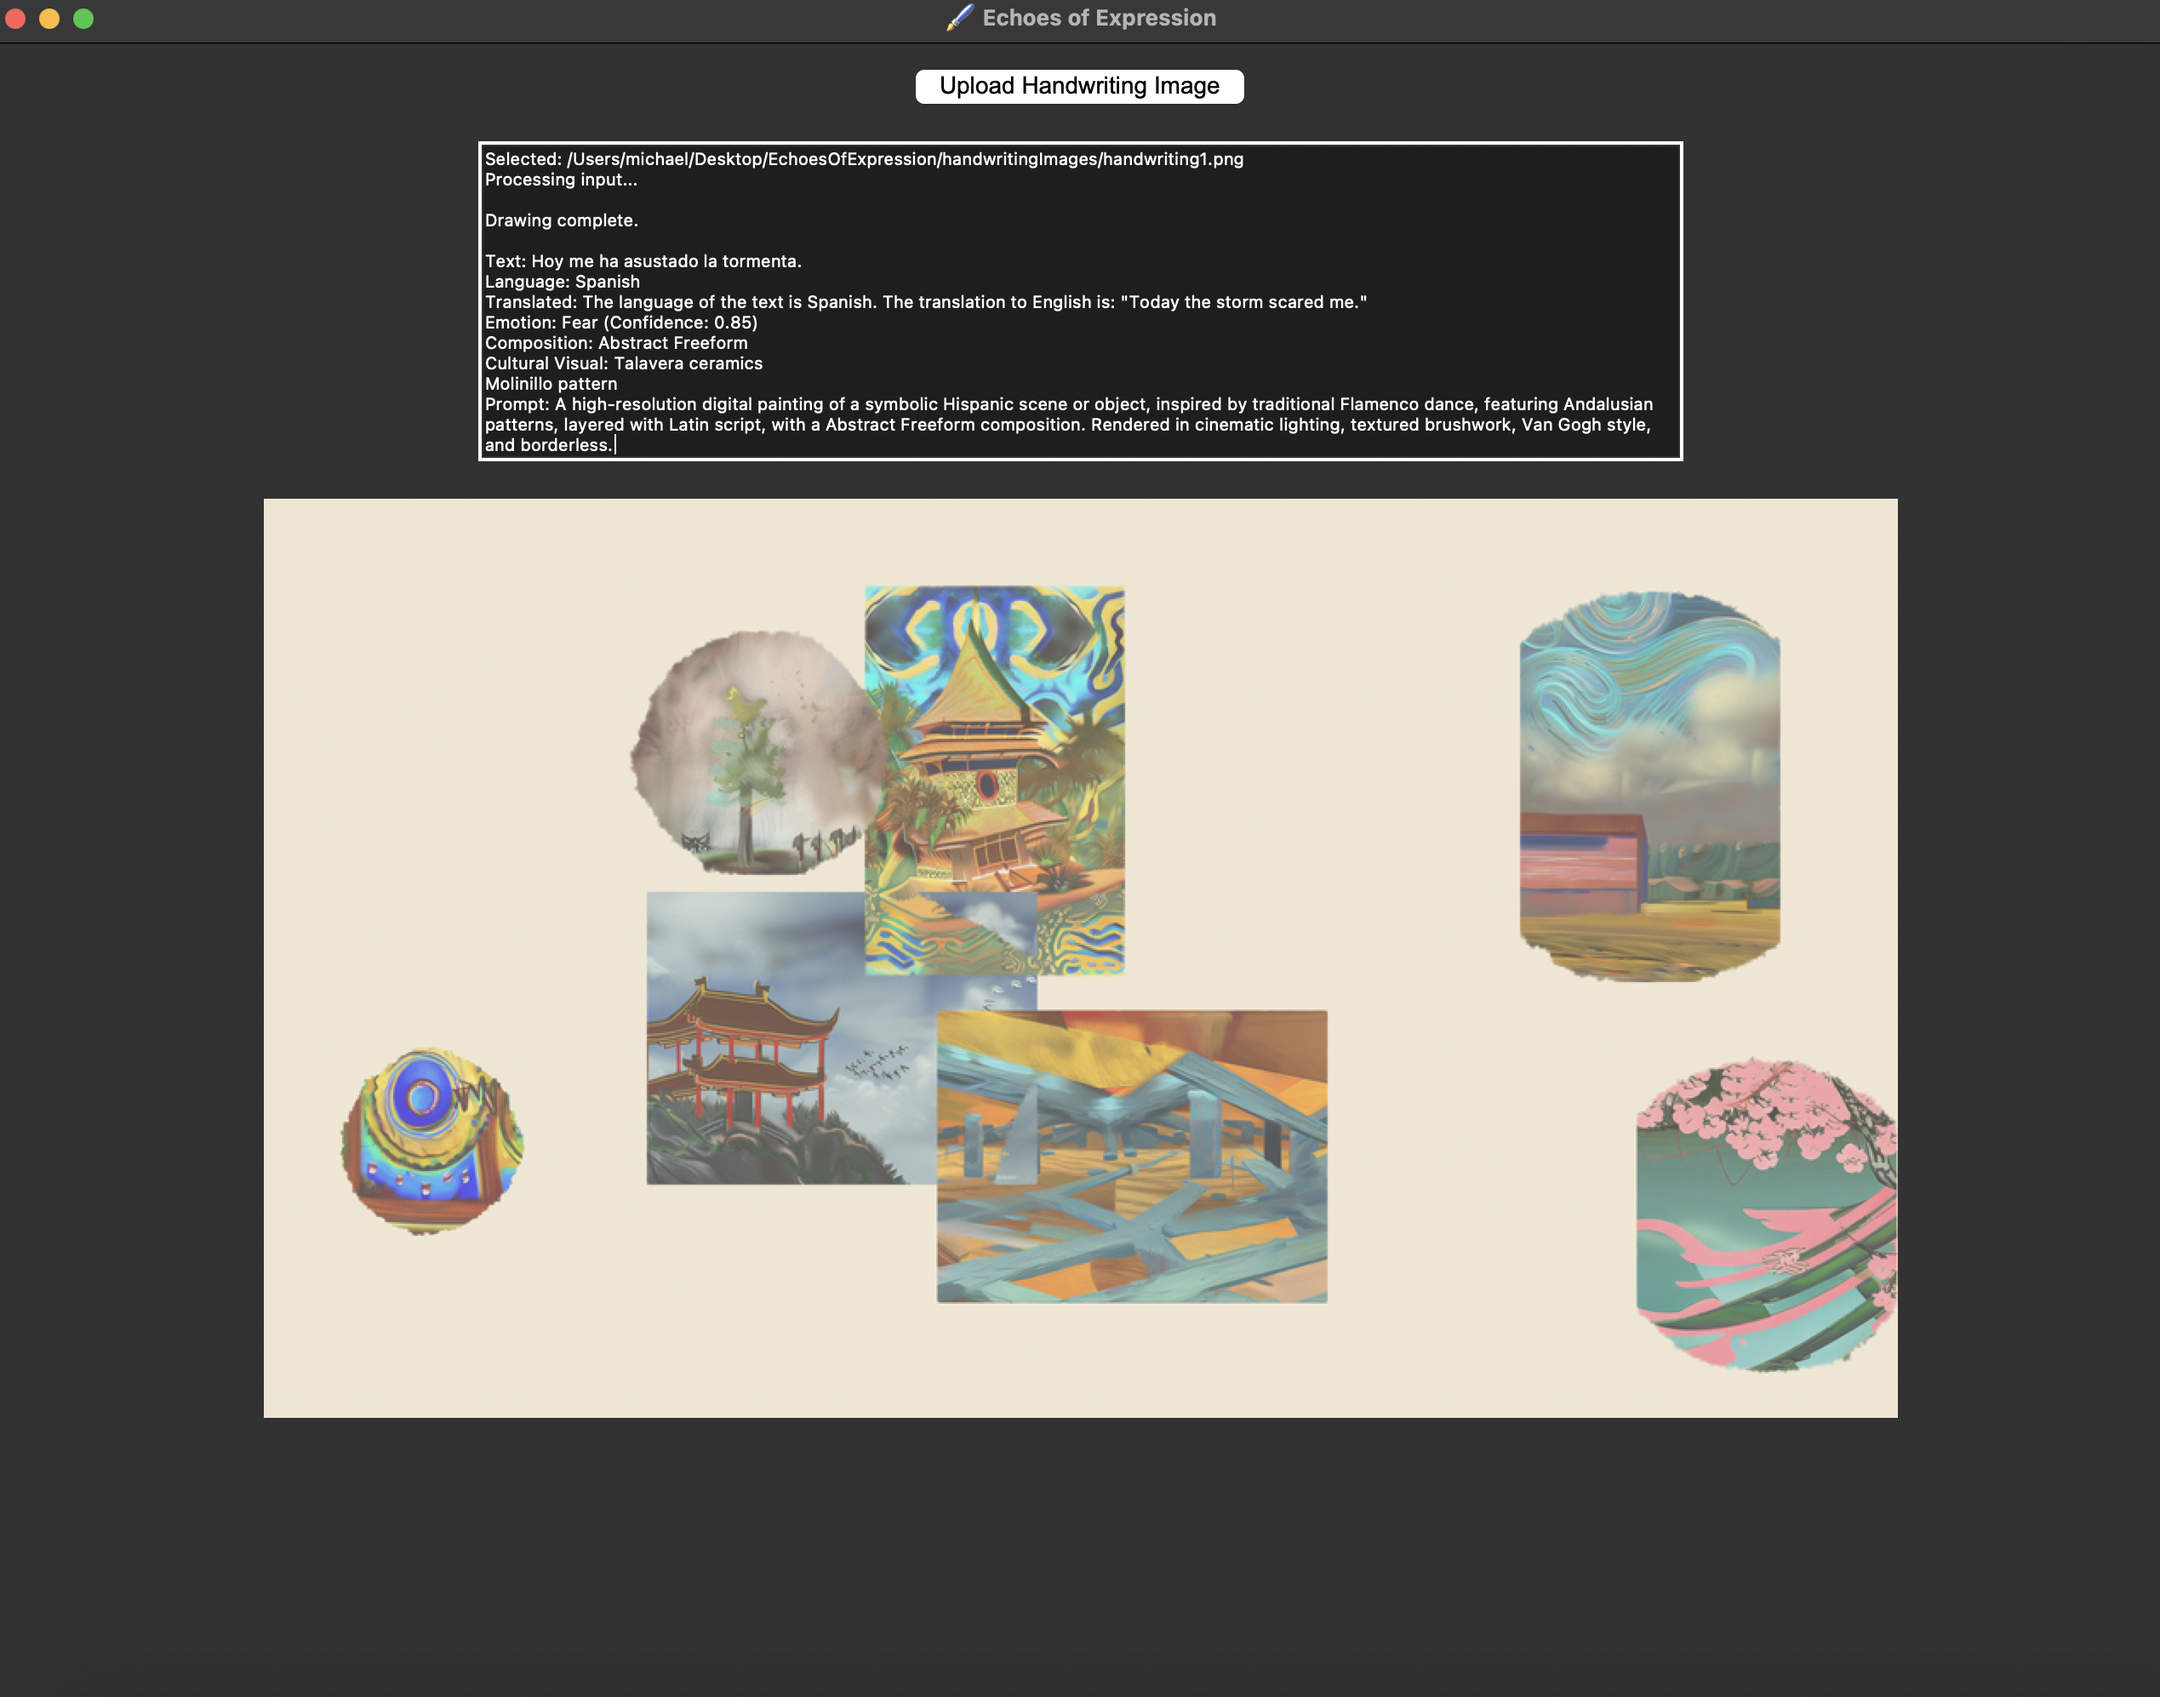
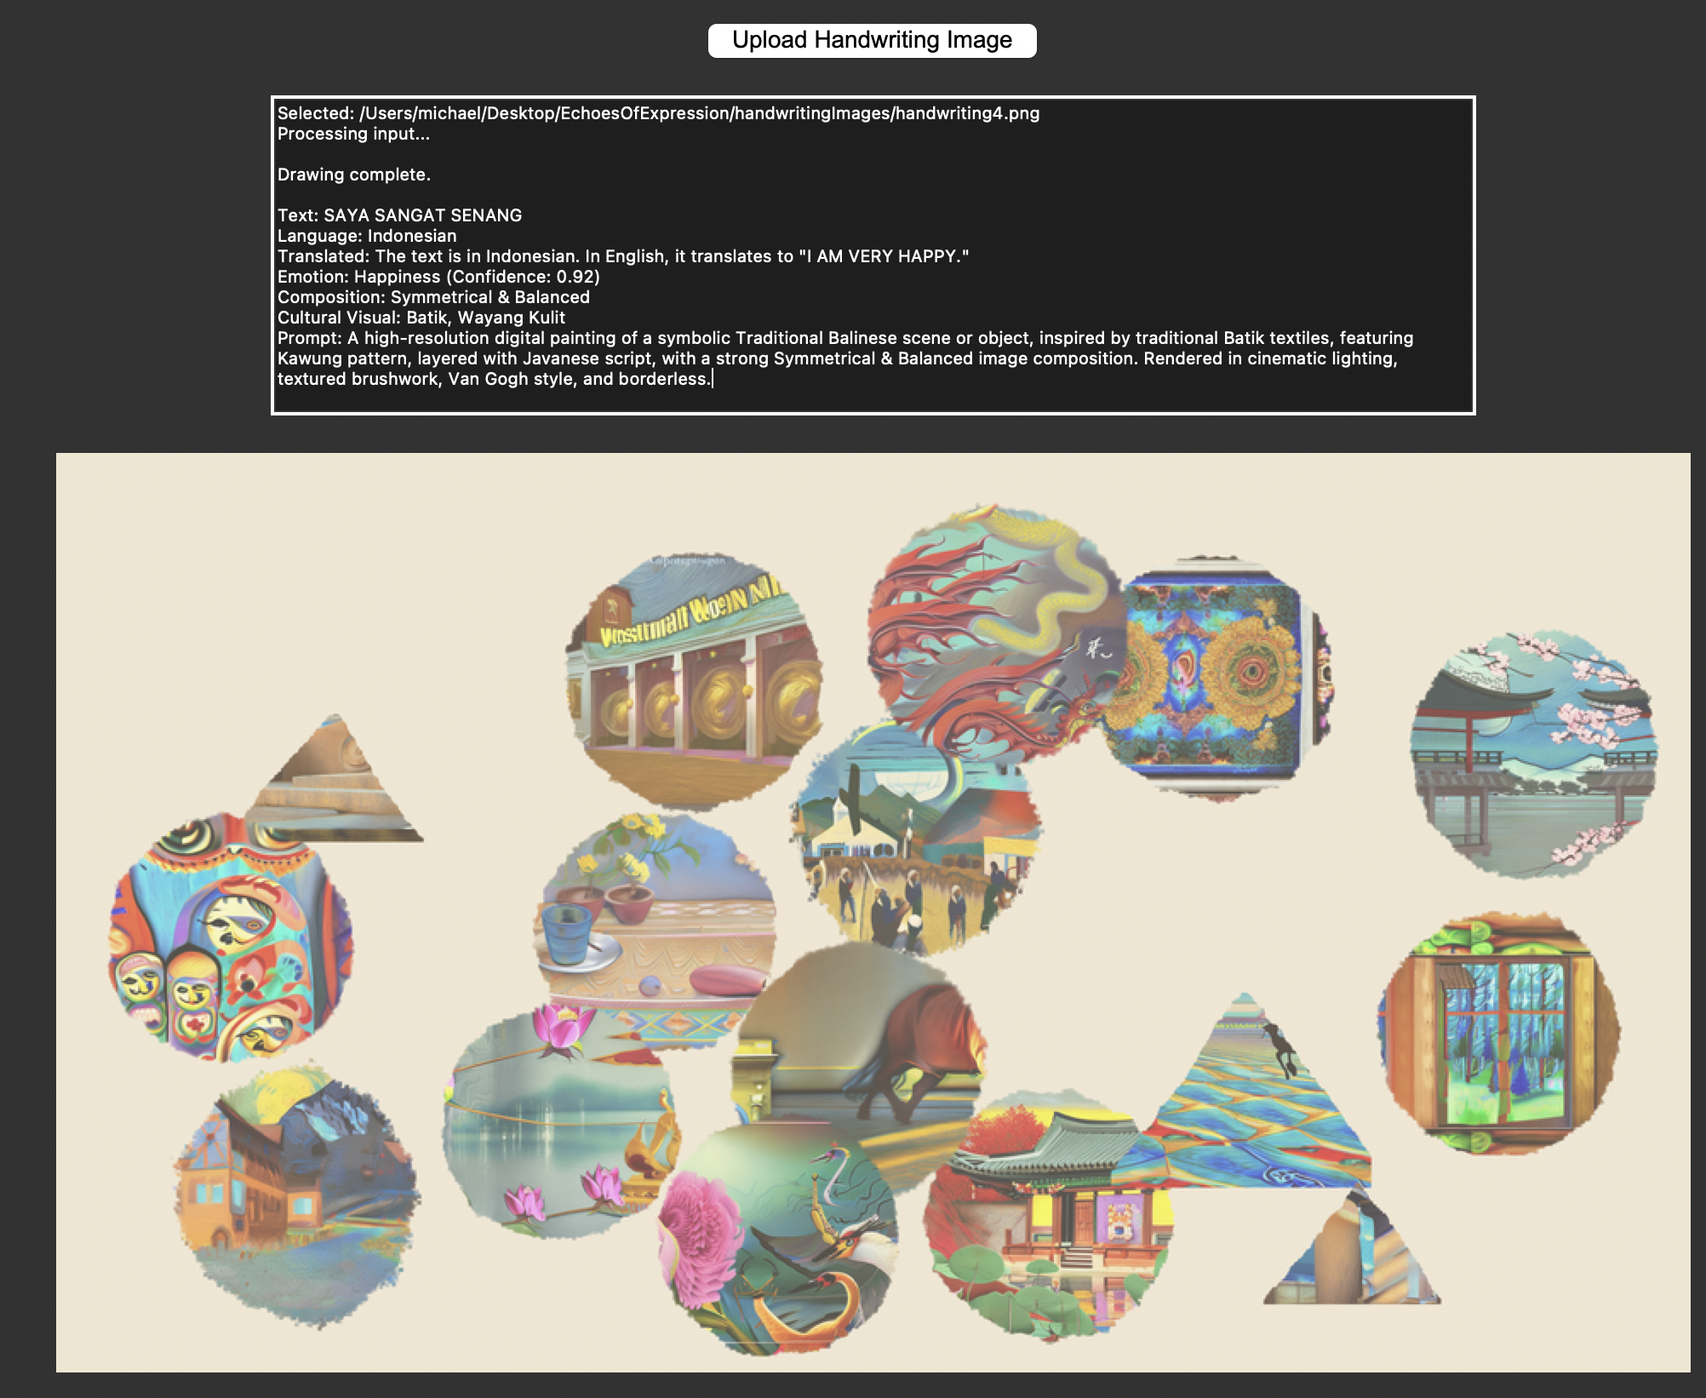
fix overlap

diff --git a/project.py b/project.py
@@ -565,7 +565,7 @@ def generate_image():
 
     return image_path, prompt
 
-def intersect_with_tolerance(box1, box2, max_overlap_ratio=0.3):
+def intersect_with_tolerance(box1, box2, max_overlap_ratio=0.35):
     # Calculate intersection box
     x1 = max(box1[0], box2[0])
     y1 = max(box1[1], box2[1])
@@ -598,7 +598,7 @@ def add_agent_for_image(image_path, emotion="Unknown"):
 
         # Check overlap with other agents
         new_box = (x, y, x + new_width, y + new_height)
-        overlap = any(intersect_with_tolerance(new_box, region, max_overlap_ratio=0.3) for region in used_regions)
+        overlap = any(intersect_with_tolerance(new_box, region, max_overlap_ratio=0.35) for region in used_regions)
 
         if not overlap:
             used_regions.append(new_box)
